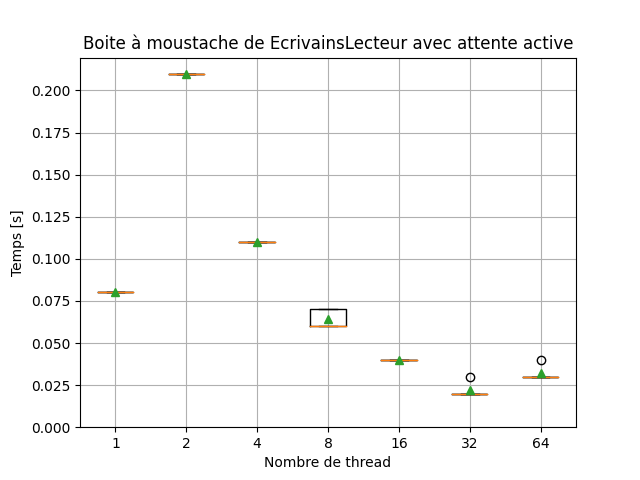
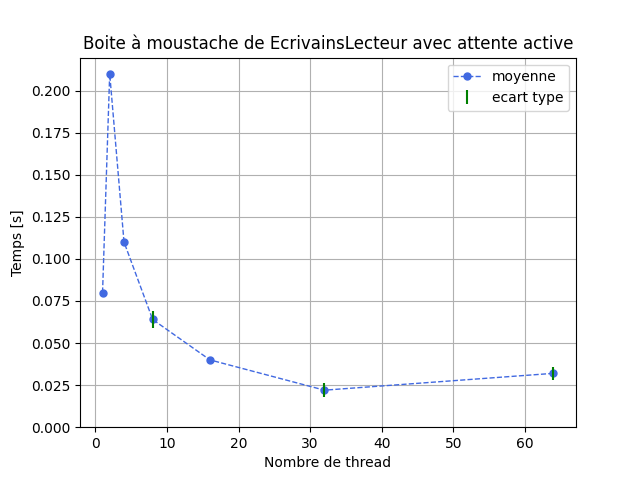
plot

diff --git a/Projet_SI/plot.py b/Projet_SI/plot.py
@@ -15,24 +15,34 @@ def moustache(data_name, name):
     data_16=data_time[data_thread==16]
     data_32=data_time[data_thread==32]
     data_64=data_time[data_thread==64]
-
+    mean_1=data_1.mean()
+    mean_2=data_2.mean()
+    mean_4=data_4.mean()
+    mean_8=data_8.mean()
+    mean_16=data_16.mean()
+    mean_32=data_32.mean()
+    mean_64=data_64.mean()
+    mean=[mean_1,mean_2,mean_4,mean_8,mean_16,mean_32,mean_64]
+    ecart=[np.std(data_1),np.std(data_2),np.std(data_4),np.std(data_8),np.std(data_16),np.std(data_32),np.std(data_64)]
     fig=plt.figure()
-    plt.boxplot([data_1,data_2,data_4,data_8,data_16,data_32,data_64], labels=[1,2,4,8,16,32,64],showmeans=True)
+    plt.plot([1,2,4,8,16,32,64],mean,marker = "o", linestyle= "--",markersize = 5, linewidth= 1, color= "royalblue")
+    plt.errorbar([1,2,4,8,16,32,64], mean,yerr=ecart,linestyle = "None",color= "g")
+    plt.legend(["moyenne", "ecart type"])
     plt.ylabel('Temps [s]')
     plt.grid(True)
     plt.ylim(bottom=0)
     plt.xlabel('Nombre de thread')
-    plt.title('Boite à moustache de ' + name)
+    plt.title('Mesures des performances de ' + name)
     plt.savefig('../Projet_SI/Graphe/'+name+'.png')
     plt.close()
 
 moustache('mesuresEL.csv', "EcrivainsLecteurs")
 moustache('mesuresPhilosophe.csv', "Philosophe")
-moustache('mesuresPC.csv', "ProducteurConsommateur")
+#moustache('mesuresPC.csv', "ProducteurConsommateur")
 moustache('mesuresTas.csv', "Test-and-set")
 moustache('mesuresTatas.csv', "Test-and-test-and-set")
 moustache('mesuresEL2.csv', "EcrivainsLecteur avec attente active")
-moustache('mesuresPC2.csv', "ProducteurConsommateur avec attente active")
+#moustache('mesuresPC2.csv', "ProducteurConsommateur avec attente active")
 moustache('mesuresPhilosophe2.csv', "Philosophe avec attente active")
 
 
